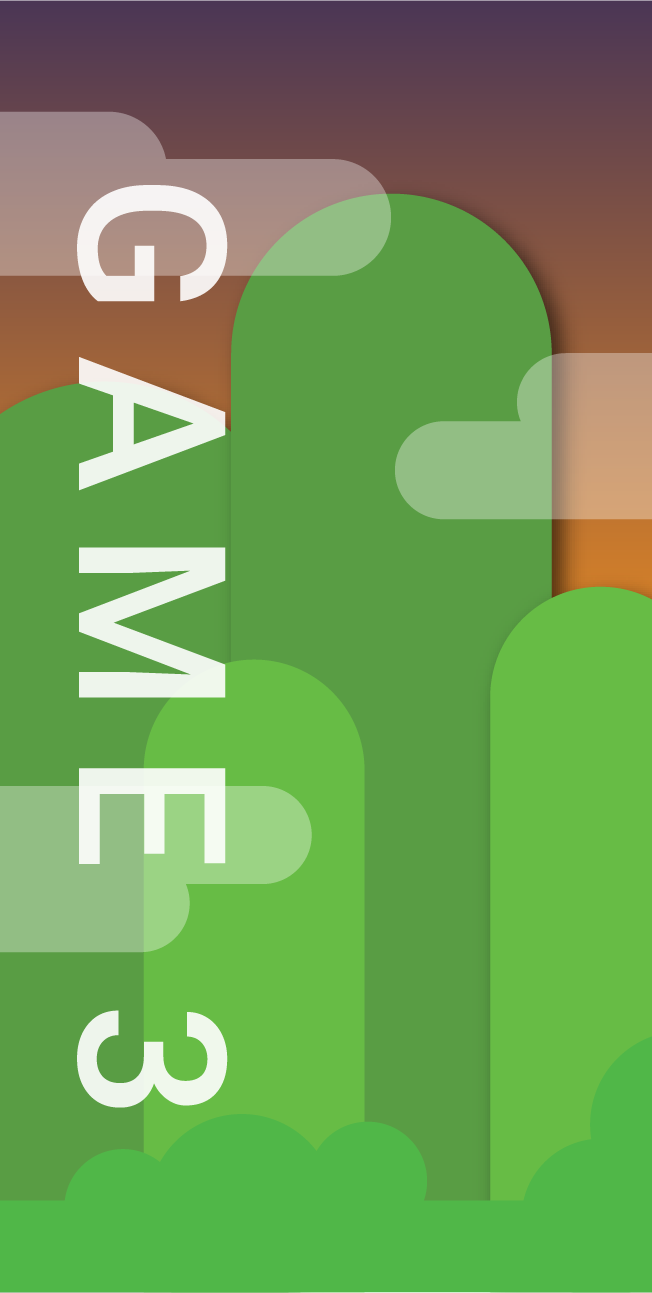
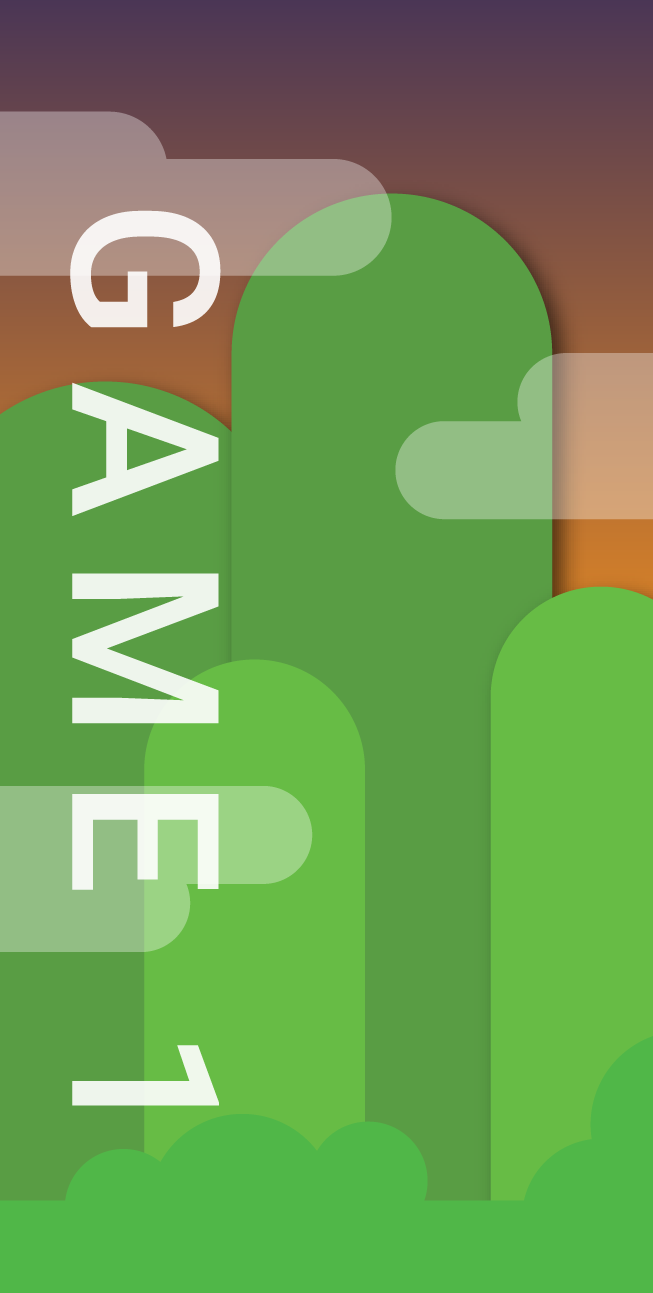
added game images

diff --git a/src/components/mainButtons.js b/src/components/mainButtons.js
@@ -6,10 +6,10 @@ import CardActionArea from '@material-ui/core/CardActionArea';
 import CardMedia from '@material-ui/core/CardMedia';
 import { Route, Link } from 'react-router-dom'
 
-import Bg from '../images/bg.svg'
 import Water from '../images/underwater.png'
 import Hills from '../images/hills.png'
 import Mtn from '../images/mtn.png'
+import Trees from '../images/trees.png'
 import Tower from '../images/tower.png'
 
 const styles = {
@@ -24,19 +24,19 @@ const styles = {
 const images = [
   {
     title: "minigame1",
-    img: Bg,
+    img: Hills,
     link: "/miniGame1"
   }, {
     title: "minigame2",
-    img: Water,
+    img: Trees,
     link: "/miniGame2"
   }, {
     title: "minigame3",
-    img: Hills,
+    img: Mtn,
     link: "/miniGame3"
   }, {
     title: "minigame4",
-    img: Mtn,
+    img: Water,
     link: "/miniGame4"
   }, {
     title: "tower",
